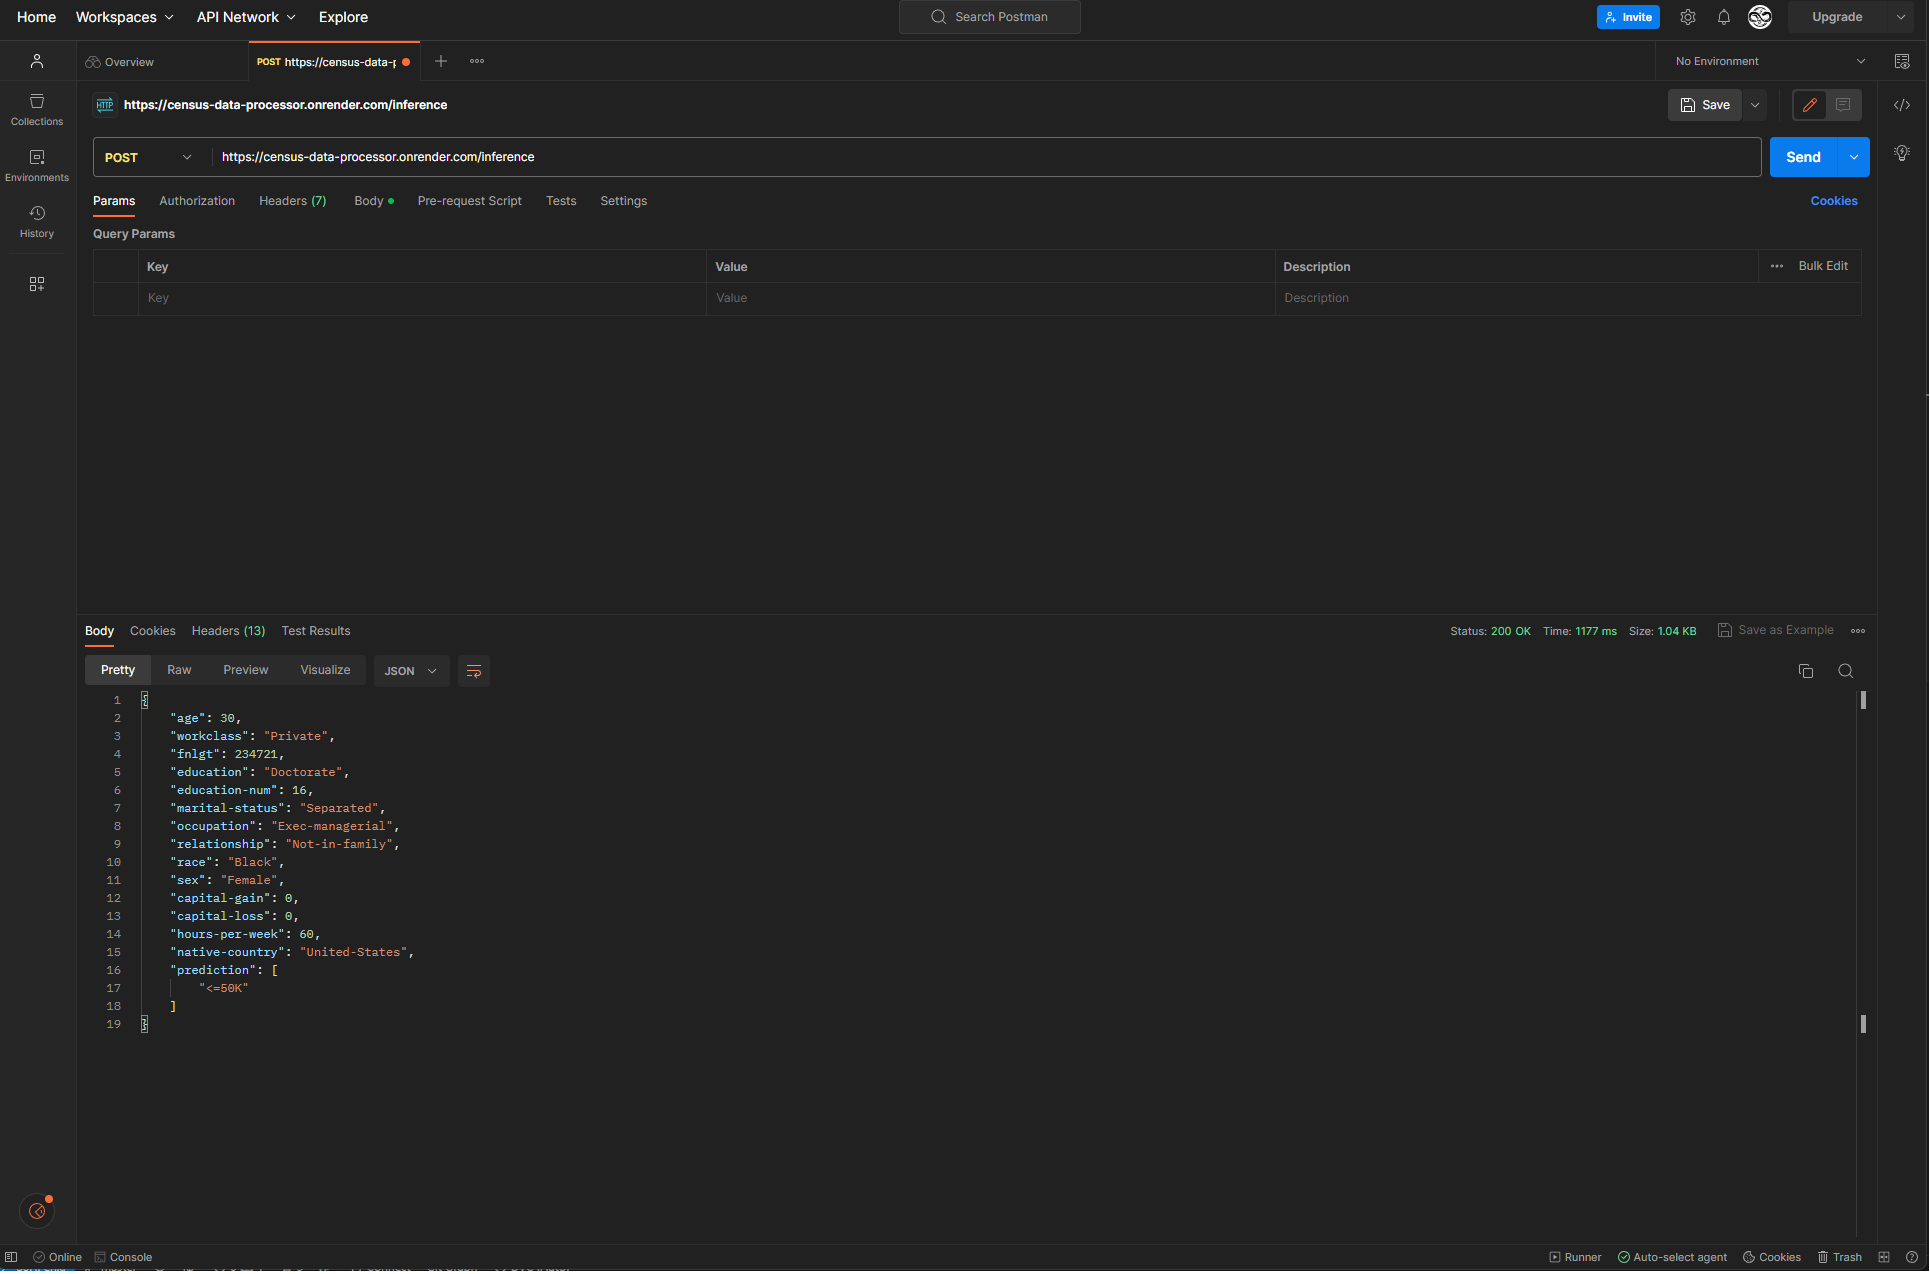
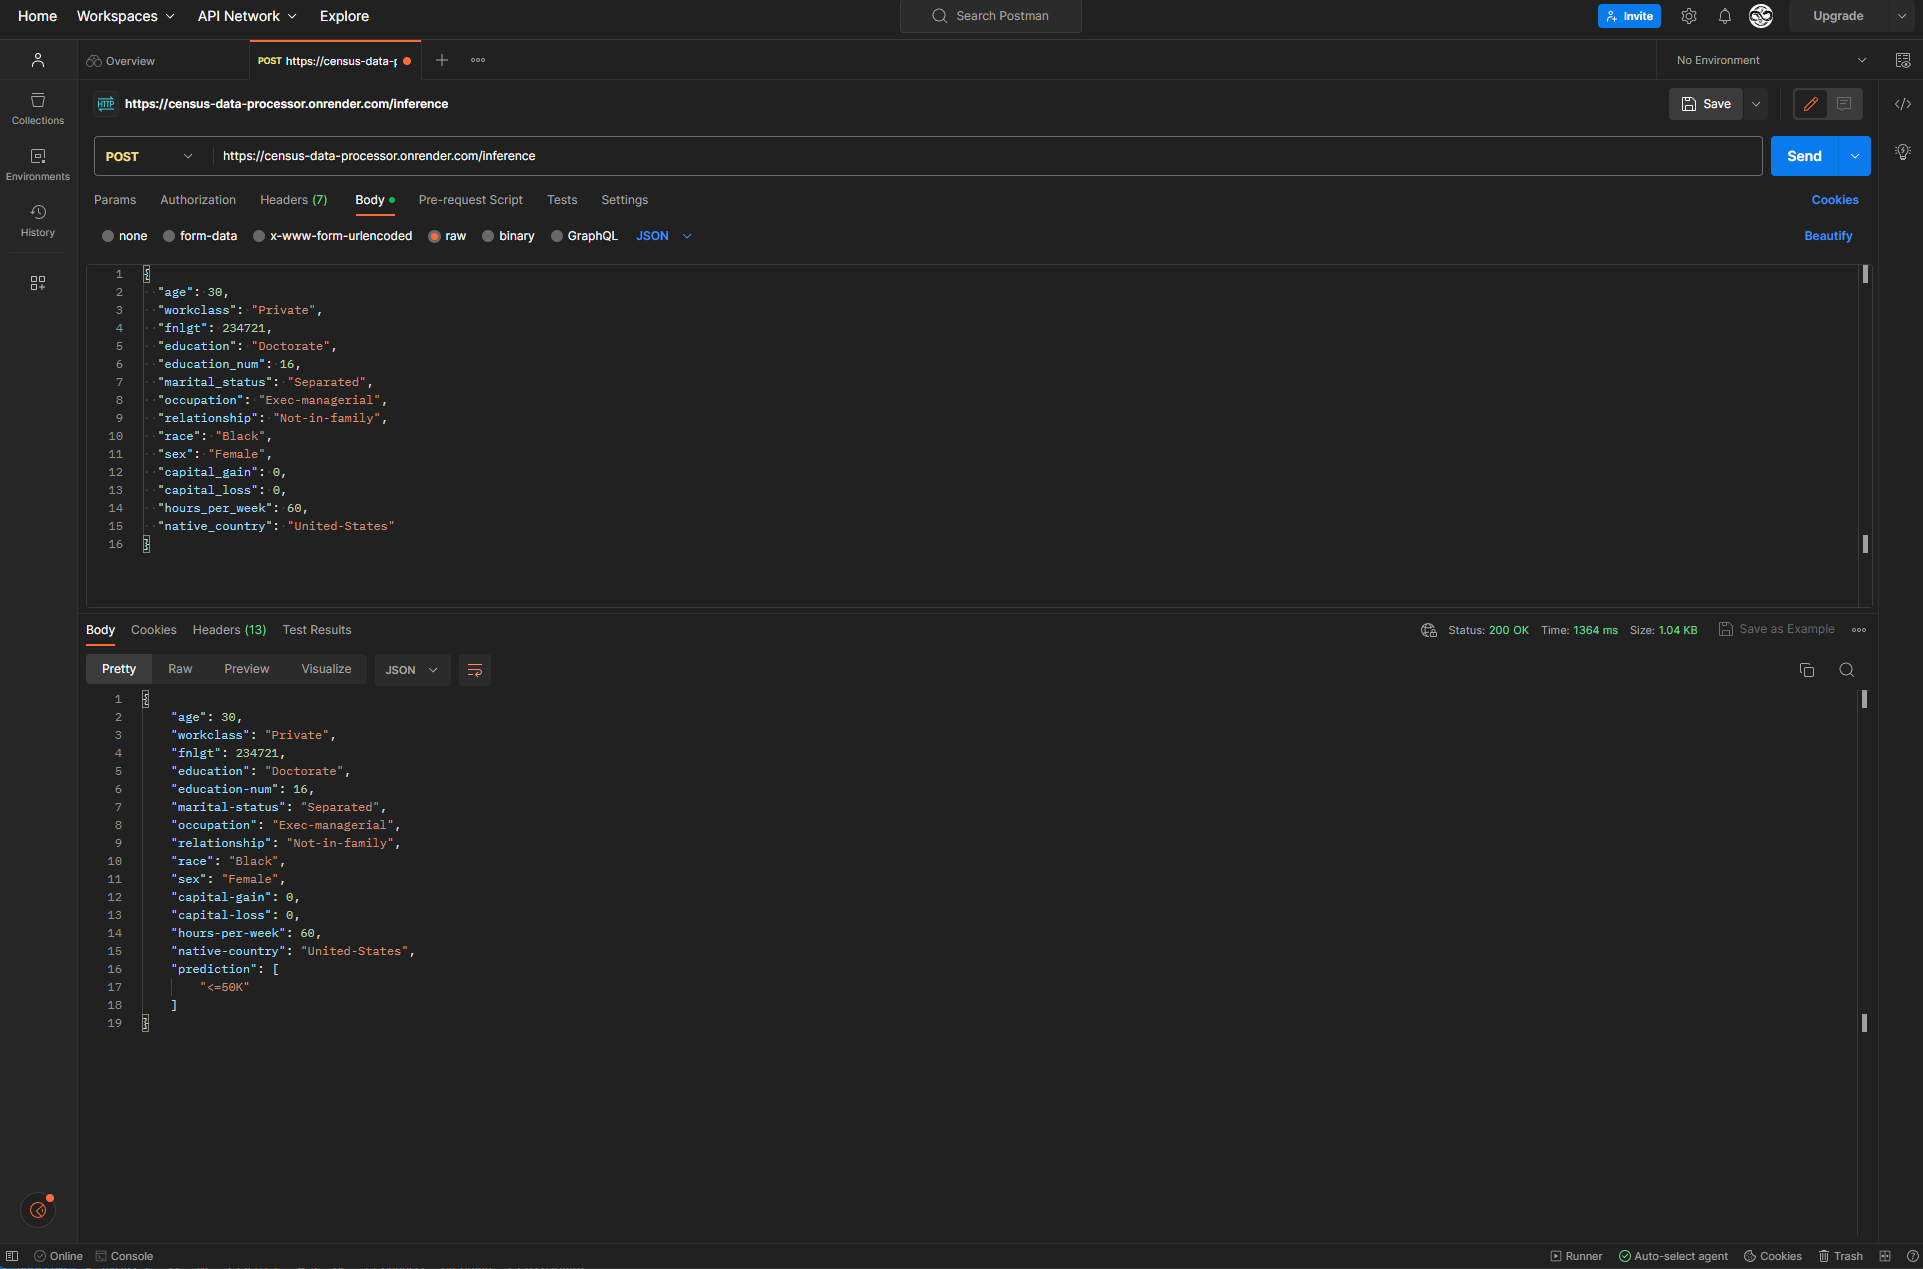
Screenshot updated

diff --git a/README.md b/README.md
@@ -71,6 +71,23 @@ On the documentation the API usage can be found.
 service maybe stopped due inactivity and when it is accessed by first time, it look
 some time to restart the service and it can look irresponsive for a while.
 
+## Continuos Integration (CI) example
+
+![Continuos Integration](screenshots/continuous_integration.png)
+
+## Continuos Deployment (CI) example
+
+![Continuos Deployment](screenshots/continuous_deloyment.png)
+
+## Live API example
+
+### GET example
+![GET](screenshots/live_get.png)
+
+### POST example
+![POST](screenshots/live_post.png)
+
+
 ## Authorship
 
 [Julian Bolivar](https://www.linkedin.com/in/jbolivarg), 2023.  
